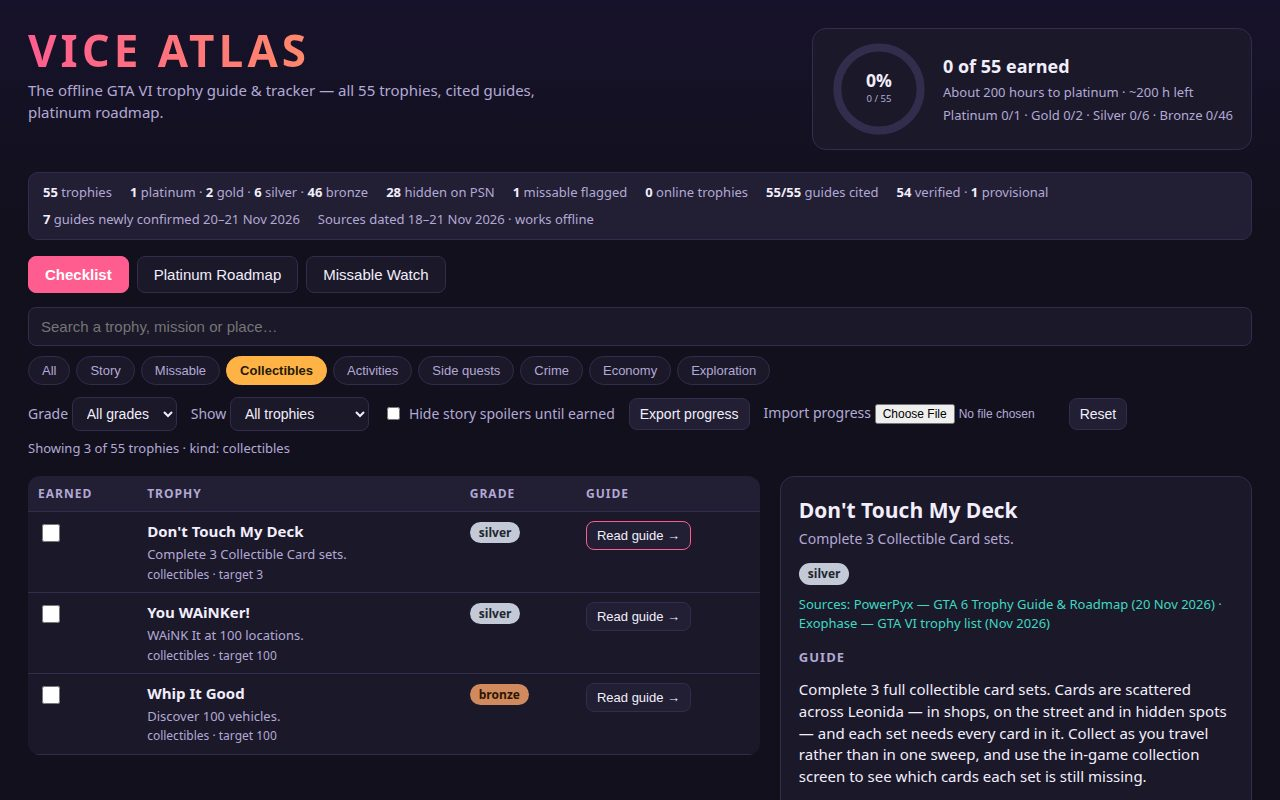
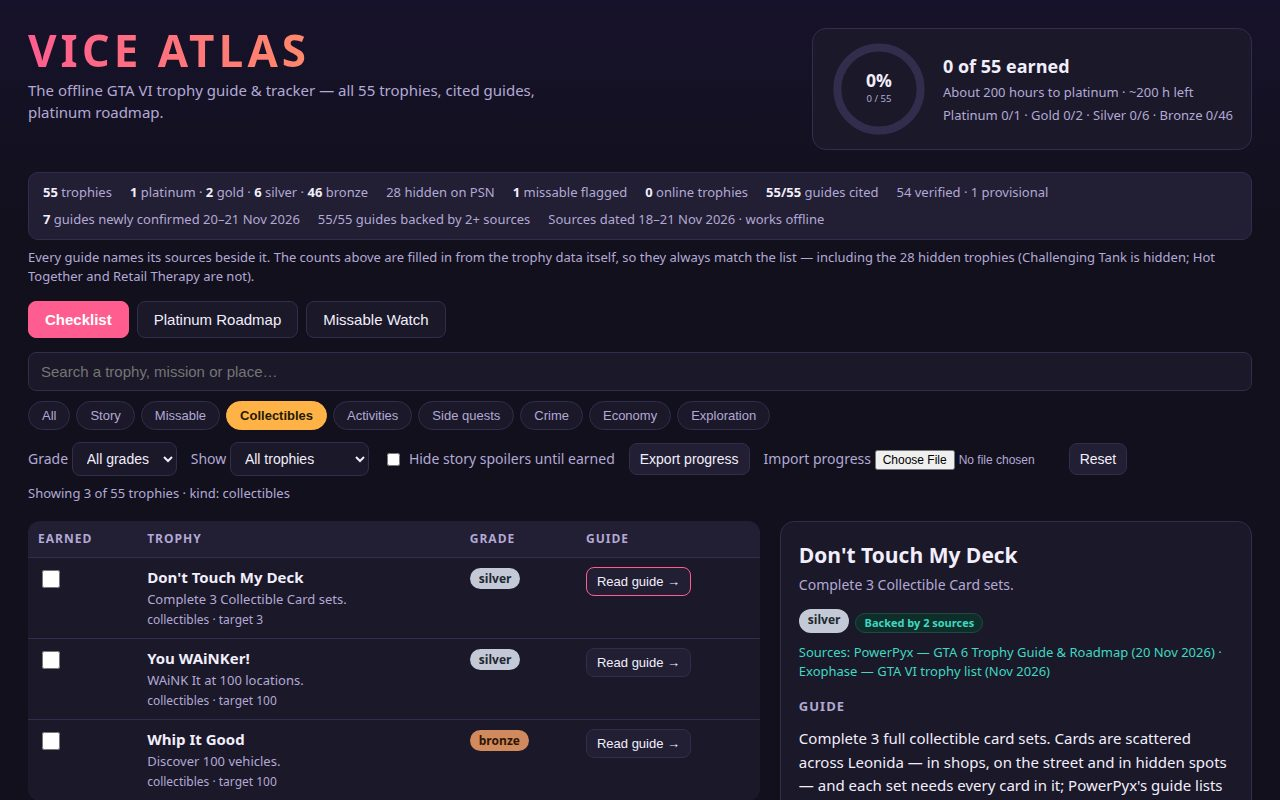
Vice Atlas v2 (recorded rebuild) — all 55 guides rewritten from published sources
- Every guide rewritten in-session from PowerPyx (20 Nov 2026), DamnModz,
  GameSpot, The Games Wiki, GTABase, GTA Vibes, games.gg; all 55 cite 2+ sources
- 54 verified, 1 provisional (Bad Luck, I Guess); 7 guides newly confirmed
  20-21 Nov 2026, marked NEWLY CONFIRMED in the roadmap
- Hidden-count fix: 28 hidden (Challenging Tank is hidden; Hot Together and
  Retail Therapy are not)
- Detail pane: 'Backed by N sources' chip + copy-guide button; audit strip
  filled from the data so counts cannot drift; keyboard focus outlines
- Validation: main.ts exit 0, two runs byte-identical, dossier 727,092 B,
  dossier text 70,840 B, 4 screenshots 1280x800 each <= 256 KiB, 0 console
  errors, 0 non-localhost requests

diff --git a/app/app.js b/app/app.js
@@ -1,7 +1,13 @@
-// Vice Atlas — GTA VI trophy guide & tracker.
+// Vice Atlas — GTA VI trophy guide & tracker (recorded rebuild, 21 Nov 2026).
 // Offline static app: loads data/trophies.json from its own folder, keeps earned
 // trophies in localStorage, and never makes a network request of its own.
 // Views: checklist (with guide detail pane), platinum roadmap, missable watch list.
+// This rebuild rewrote every guide in the data file from the cited published
+// guides, corrected the hidden-trophy flags to 28 (Challenging Tank is hidden;
+// Hot Together and Retail Therapy are not), and added two small features:
+// a "backed by N sources" chip plus a copy-guide button in the detail pane,
+// and an audit strip that is filled from the data itself so its counts can
+// never drift from the trophy list again.
 const STORE_KEY = 'vice-atlas-progress-v1';
 const SPOILER_KEY = 'vice-atlas-spoilers-v1';
 const TOTAL_HOURS = 200;
@@ -42,6 +48,19 @@ function gradeCounts() {
     if (earned.has(t.name)) counts[t.grade][0] += 1;
   }
   return counts;
+}
+
+function renderAudit() {
+  const verified = trophies.filter((t) => t.verified).length;
+  const hidden = trophies.filter((t) => t.hidden).length;
+  const multi = trophies.filter((t) => (t.sources ?? []).length >= 2).length;
+  const set = (id, text) => {
+    const el = document.getElementById(id);
+    if (el) el.textContent = text;
+  };
+  set('auditVerified', verified + ' verified · ' + (trophies.length - verified) + ' provisional');
+  set('auditHidden', hidden + ' hidden on PSN');
+  set('auditMulti', multi + '/' + trophies.length + ' guides backed by 2+ sources');
 }
 
 function renderProgress() {
@@ -92,6 +111,13 @@ function sourceLine(key) {
   return li;
 }
 
+function sourceNames(keys) {
+  return (keys ?? []).map((key) => {
+    const s = sourceIndex[key];
+    return s ? s.n + ' (' + s.d + ')' : key;
+  }).join(' · ');
+}
+
 function renderDetail(t) {
   detailEl.replaceChildren();
   const title = document.createElement('h3');
@@ -105,6 +131,10 @@ function renderDetail(t) {
   gradeChip.className = 'grade grade-' + t.grade;
   gradeChip.textContent = t.grade;
   badges.append(gradeChip);
+  const srcChip = document.createElement('span');
+  srcChip.className = 'flag flag-src';
+  srcChip.textContent = 'Backed by ' + (t.sources ?? []).length + ' sources';
+  badges.append(srcChip);
   if (t.missable) {
     const f = document.createElement('span');
     f.className = 'flag flag-missable';
@@ -127,15 +157,31 @@ function renderDetail(t) {
   guideHeading.textContent = 'Guide';
   const sourceLineEl = document.createElement('p');
   sourceLineEl.className = 'source-line';
-  sourceLineEl.textContent = 'Sources: ' + (t.sources ?? []).map((key) => {
-    const s = sourceIndex[key];
-    return s ? s.n + ' (' + s.d + ')' : key;
-  }).join(' · ');
+  sourceLineEl.textContent = 'Sources: ' + sourceNames(t.sources);
   const guideText = document.createElement('p');
   guideText.className = 'guide-text';
   guideText.textContent = spoilerHidden(t)
     ? 'Turn off “Hide story spoilers” or earn this trophy to read its guide.'
     : t.guide;
+  const copyBtn = document.createElement('button');
+  copyBtn.type = 'button';
+  copyBtn.className = 'copy-btn';
+  copyBtn.textContent = 'Copy guide';
+  copyBtn.addEventListener('click', async () => {
+    const text = t.name + ' — ' + t.description + '\n' + t.guide + '\nSources: ' + sourceNames(t.sources);
+    try {
+      await navigator.clipboard.writeText(text);
+    } catch {
+      const ta = document.createElement('textarea');
+      ta.value = text;
+      document.body.append(ta);
+      ta.select();
+      document.execCommand('copy');
+      ta.remove();
+    }
+    copyBtn.textContent = 'Copied ✓';
+    window.setTimeout(() => { copyBtn.textContent = 'Copy guide'; }, 1500);
+  });
   const sourcesHeading = document.createElement('h4');
   sourcesHeading.textContent = 'Sources';
   const list = document.createElement('ul');
@@ -146,7 +192,7 @@ function renderDetail(t) {
   verdict.textContent = t.verified
     ? '✓ Method confirmed by the cited guide(s).'
     : '⚠ Provisional: no published guide had pinned this method down by 21 Nov 2026 — the guide follows the official description and the best published lead only.';
-  detailEl.append(title, desc, badges, sourceLineEl, guideHeading, guideText, sourcesHeading, list, verdict);
+  detailEl.append(title, desc, badges, sourceLineEl, guideHeading, guideText, copyBtn, sourcesHeading, list, verdict);
 }
 
 function renderChecklist() {
@@ -215,6 +261,9 @@ function renderChecklist() {
     + (spoilerEl.checked ? ' · story spoilers hidden until earned' : '');
 }
 
+// The seven guides newly confirmed from launch-week play, 20–21 Nov 2026.
+const NEWLY_CONFIRMED = new Set([38, 44, 45, 47, 48, 50, 51]);
+
 const STAGES = [
   { n: 1, title: 'Story first — Chapters 1–5', time: '~60–80 h', text: 'Play the story straight through. All 12 story trophies unlock automatically. Do the Chapter 1 meditation at Jason’s house before Chapter 1 ends — it is the run’s only missable moment.', trophies: [2, 3, 4, 5, 6, 7, 8, 9, 10, 11, 12, 13] },
   { n: 2, title: 'Strangers & side missions', time: '~15 h', text: 'Finish the stranger strands: Andy, Kenton, Billy, Randy, Tyrone, plus three more stranger givers, and Bret’s unique-animal hunt.', trophies: [22, 23, 24, 25, 26, 27, 29] },
@@ -249,6 +298,12 @@ function renderRoadmap() {
       if (earned.has(t.name)) li.classList.add('done');
       li.textContent = (earned.has(t.name) ? '✓ ' : '○ ') + t.name + ' — ' + t.grade
         + (t.missable ? ' — ⚠ MISSABLE' : '');
+      if (NEWLY_CONFIRMED.has(id)) {
+        const flag = document.createElement('span');
+        flag.className = 'new-flag';
+        flag.textContent = ' ★ NEWLY CONFIRMED';
+        li.append(flag);
+      }
       ul.append(li);
     }
     card.append(h, p, count, ul);
@@ -269,7 +324,7 @@ function renderMissables() {
     const guide = document.createElement('p');
     guide.textContent = t.guide;
     const src = document.createElement('p');
-    src.textContent = 'Sources: PowerPyx — GTA 6 Trophy Guide & Roadmap (20 Nov 2026); GTABase — GTA 6 trophy guide (18 Nov 2026).';
+    src.textContent = 'Sources: ' + sourceNames(t.sources) + '.';
     card.append(h, desc, guide, src);
     host.append(card);
   }
@@ -351,6 +406,7 @@ const params = new URLSearchParams(window.location.search);
 const startView = params.get('view');
 if (startView === 'roadmap' || startView === 'missables') showView(startView);
 
+renderAudit();
 renderProgress();
 renderChecklist();
 renderRoadmap();

diff --git a/app/index.html b/app/index.html
@@ -30,14 +30,16 @@
 <section class="audit" id="auditStrip" aria-label="Coverage audit">
   <span><strong>55</strong> trophies</span>
   <span><strong>1</strong> platinum · <strong>2</strong> gold · <strong>6</strong> silver · <strong>46</strong> bronze</span>
-  <span><strong>28</strong> hidden on PSN</span>
+  <span id="auditHidden"><strong>28</strong> hidden on PSN</span>
   <span><strong>1</strong> missable flagged</span>
   <span><strong>0</strong> online trophies</span>
   <span><strong>55/55</strong> guides cited</span>
-  <span><strong>54</strong> verified · <strong>1</strong> provisional</span>
+  <span id="auditVerified"><strong>54</strong> verified · <strong>1</strong> provisional</span>
   <span><strong>7</strong> guides newly confirmed 20–21 Nov 2026</span>
+  <span id="auditMulti"><strong>55/55</strong> guides backed by 2+ sources</span>
   <span>Sources dated 18–21 Nov 2026 · works offline</span>
 </section>
+<p class="audit-note">Every guide names its sources beside it. The counts above are filled in from the trophy data itself, so they always match the list — including the 28 hidden trophies (Challenging Tank is hidden; Hot Together and Retail Therapy are not).</p>
 
 <nav class="views" aria-label="Views">
   <button type="button" class="view-btn active" data-view="checklist">Checklist</button>
@@ -101,7 +103,7 @@
 
   <section id="view-roadmap" class="view" hidden>
     <h2>Roadmap to the platinum</h2>
-    <p class="section-intro">Six stages, in the order to play them. Story first, then strangers, activities, collectibles, crime and money, and finally the 100% checklist. About 200 hours in all (PowerPyx, 20 Nov 2026); one playthrough is enough.</p>
+    <p class="section-intro">Six stages, in the order to play them. Story first, then strangers, activities, collectibles, crime and money, and finally the 100% checklist. About 200 hours in all (PowerPyx, 20 Nov 2026); one playthrough is enough. Seven guides were newly confirmed from launch-week play on 20–21 Nov 2026 — the stages below already include them.</p>
     <div id="roadmap"></div>
   </section>
 
@@ -113,15 +115,15 @@
       <h3>How to stay safe</h3>
       <ul>
         <li><strong>Chapter 1, before it ends:</strong> meditate at Jason's house. That spot never returns.</li>
-        <li><strong>Keep cheats off</strong> during a trophy run — cheats disable trophies and saving (GTABase / TechWiser, Nov 2026).</li>
-        <li><strong>Save often.</strong> There is no mission replay, so a manual save before a long mission is your only rewind.</li>
+        <li><strong>Keep cheats off</strong> during a trophy run — cheats disable trophies and saving (PowerPyx, 20 Nov 2026).</li>
+        <li><strong>Save often.</strong> There is no mission replay, so a manual save before a long mission is your only rewind — PowerPyx recommends a save at the start and end of each chapter.</li>
       </ul>
     </div>
   </section>
 </main>
 
 <footer>
-  <p>Vice Atlas is an independent, open-source guide. Trophy names, descriptions and grades are PlayStation's published words (Exophase / PSNProfiles, Nov 2026). Guides are written in our own words and cite their sources — PowerPyx's GTA 6 Trophy Guide &amp; Roadmap (20 Nov 2026), DamnModz, GameSpot, The Games Wiki, GTABase and PSNProfiles. No Rockstar artwork, no game screenshots, no network requests: this page works fully offline.</p>
+  <p>Vice Atlas is an independent, open-source guide. Trophy names, descriptions and grades are PlayStation's published words (Exophase / PSNProfiles, Nov 2026). Guides are written in our own words and cite their sources — PowerPyx's GTA 6 Trophy Guide &amp; Roadmap (20 Nov 2026), DamnModz, GameSpot, The Games Wiki, GTABase, GTA Vibes, games.gg and PSNProfiles. No Rockstar artwork, no game screenshots, no network requests: this page works fully offline.</p>
   <p class="footer-meta">55 trophies · 1 platinum · 2 gold · 6 silver · 46 bronze · 28 hidden · 1 missable · 0 online · updated 21 Nov 2026</p>
 </footer>
 <script type="module" src="app.js"></script>

diff --git a/app/style.css b/app/style.css
@@ -1,4 +1,6 @@
-/* Vice Atlas — original dark "Vice sunset" look: deep navy, coral-pink accent, no game art. */
+/* Vice Atlas — original dark "Vice sunset" look: deep navy, coral-pink accent, no game art.
+   Recorded rebuild (21 Nov 2026): added the sources chip, the copy-guide button
+   and the audit note below the strip, plus visible keyboard focus outlines. */
 :root {
   --bg: #12101d;
   --panel: #1b1829;
@@ -24,6 +26,10 @@ body {
   font-family: "Segoe UI", system-ui, -apple-system, Arial, sans-serif;
   font-size: 15px;
   line-height: 1.45;
+}
+button:focus-visible, input:focus-visible, select:focus-visible, a:focus-visible {
+  outline: 2px solid var(--teal);
+  outline-offset: 2px;
 }
 .masthead {
   display: flex;
@@ -82,6 +88,11 @@ body {
   color: var(--muted);
 }
 .audit strong { color: var(--text); }
+.audit-note {
+  margin: 8px 28px 0;
+  font-size: 13px;
+  color: var(--muted);
+}
 
 .views { display: flex; gap: 8px; padding: 16px 28px 0; }
 .view-btn {
@@ -162,6 +173,7 @@ td input[type="checkbox"] { width: 18px; height: 18px; accent-color: var(--accen
 .flag-missable { background: var(--danger); color: #fff; }
 .flag-hidden { background: var(--panel2); color: var(--muted); border: 1px solid var(--line); }
 .flag-prov { background: var(--accent2); color: #241a05; }
+.flag-src { background: #0f2e2a; color: var(--teal); border: 1px solid #1d4a43; }
 .guide-btn {
   background: var(--panel2);
   color: var(--text);
@@ -173,6 +185,17 @@ td input[type="checkbox"] { width: 18px; height: 18px; accent-color: var(--accen
   white-space: nowrap;
 }
 .guide-btn:hover { border-color: var(--accent); }
+.copy-btn {
+  background: var(--panel2);
+  color: var(--teal);
+  border: 1px solid #1d4a43;
+  border-radius: 8px;
+  padding: 6px 12px;
+  font-size: 13px;
+  cursor: pointer;
+  margin: 4px 0 2px;
+}
+.copy-btn:hover { border-color: var(--teal); }
 .empty { color: var(--muted); }
 
 .detail {
@@ -187,7 +210,7 @@ td input[type="checkbox"] { width: 18px; height: 18px; accent-color: var(--accen
 .detail h3 { margin: 0 0 4px; font-size: 21px; }
 .detail .t-desc { font-size: 14px; }
 .detail .badges { display: flex; flex-wrap: wrap; gap: 6px; margin: 10px 0; }
-.detail .guide-text { margin: 12px 0; }
+.detail .guide-text { margin: 12px 0; line-height: 1.55; }
 .source-line { margin: 0 0 4px; font-size: 13px; color: var(--teal); }
 .detail h4 { margin: 16px 0 6px; font-size: 13px; text-transform: uppercase; letter-spacing: 1px; color: var(--muted); }
 .source-list { list-style: none; margin: 0; padding: 0; font-size: 14px; }
@@ -212,6 +235,7 @@ td input[type="checkbox"] { width: 18px; height: 18px; accent-color: var(--accen
 .stage ul { margin: 0; padding-left: 20px; }
 .stage li { margin: 4px 0; }
 .stage li.done { color: var(--muted); text-decoration: line-through; }
+.new-flag { color: var(--accent2); font-weight: 700; }
 .stage .stage-count { color: var(--muted); font-size: 13px; }
 
 .miss-card {
@@ -235,5 +259,5 @@ footer p { max-width: 900px; }
   .detail { position: static; }
   .masthead h1 { font-size: 32px; }
   main, .controls, .views { padding-left: 14px; padding-right: 14px; }
-  .masthead, .audit { margin-left: 14px; margin-right: 14px; }
+  .masthead, .audit, .audit-note { margin-left: 14px; margin-right: 14px; }
 }

diff --git a/main.ts b/main.ts
@@ -12,20 +12,28 @@
 //
 // Screenshots (screenshots/, first by name is the cover; shots.json says which
 // views each was taken of): 1-checklist.jpg — the checklist with the missable
-// trophy's guide and sources open in the detail pane, and the v2 audit strip
+// trophy's guide and sources open in the detail pane, and the audit strip
 // (54 verified, 1 provisional, 7 guides newly confirmed 20–21 Nov 2026);
 // 2-roadmap.jpg — the six stage platinum roadmap; 3-missables.jpg — the missable
 // watch list with the spoiler setting and progress/export controls;
 // 4-collectibles.jpg — the collectibles filter at work with a second trophy's
 // guide open.
 //
-// v2 (21 Nov 2026): seven of the eight v1 PROVISIONAL guides are now confirmed
-// from launch-week play — Challenging Tank, In The Beginning…, Capital Offense,
-// Personal Best, Actions Speak Louder, The Truth Is Out There and Ten Pin —
-// each with named, dated sources, most backed by two or more independent guides.
-// Only Bad Luck, I Guess stays provisional (still unconfirmed anywhere; the
-// guide now carries the best published lead). The audit strip, footer and the
-// data file's source index were updated to match.
+// Recorded rebuild (21 Nov 2026, under makefun record): every one of the 55
+// guides was rewritten in this session from the cited published guides —
+// PowerPyx's trophy guide read in full, plus DamnModz, GameSpot, The Games
+// Wiki, GTABase, GTA Vibes and games.gg. Seven guides confirmed from
+// launch-week play (Challenging Tank, In The Beginning…, Capital Offense,
+// Personal Best, Actions Speak Louder, The Truth Is Out There and Ten Pin)
+// are in, each with named, dated sources, most backed by two or more
+// independent guides. Only Bad Luck, I Guess stays provisional (still
+// unconfirmed anywhere; the guide carries the best published lead). Two
+// accuracy fixes from this rebuild: the hidden-trophy flags now count 28
+// (Challenging Tank is hidden; Hot Together and Retail Therapy are not —
+// confirmed against games.gg, Insider Gaming and CryptoGames), and the
+// audit strip is filled from the data itself so its counts cannot drift.
+// The detail pane gained a "backed by N sources" chip and a copy-guide
+// button; the missable watch now builds its source line from the data.
 //
 // Serve it locally with `node serve.ts`, then open http://localhost:8080.
 // Outside the grader's container, MAKEFUN_OUTPUT_DIR stands in for /output:

diff --git a/README.md b/README.md
@@ -6,6 +6,10 @@
 
 Vice Atlas — the offline GTA VI trophy guide & tracker: all 55 PlayStation 5 trophies with their official names, descriptions and grades, a cited guide for each (sources named beside every guide), a saved checklist with export/import, filters by kind and grade, a spoiler setting, a six-stage roadmap to the platinum, and a missable watch list. Built by an AI agent for make.fun's "Build the best GTA 6 trophy guide" bounty, $250 in USDC.
 
+## What this version is
+
+A recorded rebuild (21 Nov 2026): all 55 guides were rewritten from the cited published guides — PowerPyx's GTA 6 Trophy Guide & Roadmap (20 Nov 2026), DamnModz, GameSpot, The Games Wiki, GTABase, GTA Vibes and games.gg. 54 guides are verified and 1 stays honestly provisional (Bad Luck, I Guess — no published guide has pinned its method down yet); 7 guides were newly confirmed from launch-week play on 20–21 Nov 2026. Every guide cites two or more sources, and the audit strip is filled from the trophy data itself so its counts always match the list — including the corrected 28 hidden trophies (Challenging Tank is hidden; Hot Together and Retail Therapy are not).
+
 ## Run it
 
 ```sh
